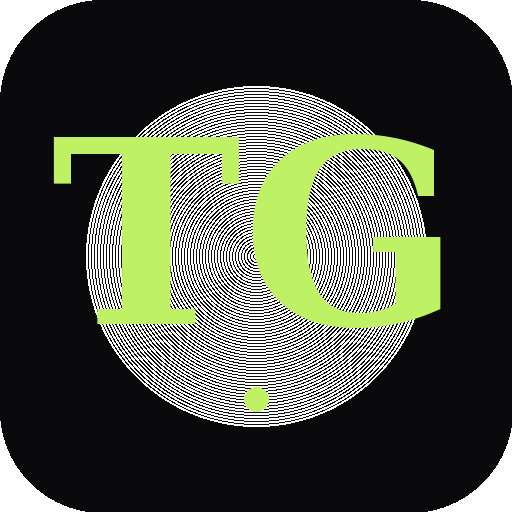
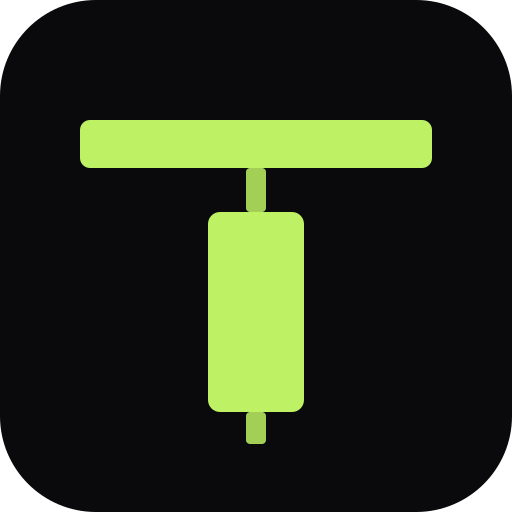
v1.79 — 4 bugs corrigés (test prod Samsung)
1. ICÔNE BUREAU PWA encore 'TG'
   → icon-192.png et icon-512.png régénérés depuis icon.svg (T-chandelier)
   → Conversion via Node + sharp (192×192: 2.7 KB, 512×512: 11.4 KB)
   → Le nouveau logo monogramme apparaît maintenant à l'install PWA

2. POP-UP CHAP 2 'Moyen d'échange' bug d'écriture
   → scene-01 CHAPTER_TAKEAWAYS[2]: 'Moyen d\u2019échange' (escape double)
   → Apparaissait littéralement 'd\u2019échange' dans le DOM
   → Fix: passé en double-quotes avec apostrophe simple

3. SCENE-04 CH4 SLIDE 4 trait rouge coupe 'panique'
   → Le <path d='M 175,165 L 145,140'> traversait le texte '😱 panique' (y=160)
   → Texte 'tu vends ici' déplacé en bas du SVG (y=195)
   → Nouvelle flèche court de y=191 à y=180, hors zone du texte panique

4. TUTO ENTRAÎNEMENT scene-05 hors gabarit
   → Targets '.sim-qty-row' et '.sim-advance-row' pointaient sur des éléments
     maintenant cachés (refonte bottom sheet v1.64)
   → Tuto réécrit: 4 étapes au lieu de 5
     · .sim-price-row (header)
     · .sim-chart-wrap (chart)
     · .tb-buy + .tb-sell (toolbar bottom)
     · .tb-advance (avancer + objectif Buy & Hold)

diff --git a/index.html b/index.html
@@ -1436,7 +1436,7 @@
 
     <div class="modules">
 
-      <div class="module-card" data-module="0" data-storage="tradegenius_v1" style="--module-color: var(--acid);" onclick="openModule(0, 'scene-01.html?v=178')">
+      <div class="module-card" data-module="0" data-storage="tradegenius_v1" style="--module-color: var(--acid);" onclick="openModule(0, 'scene-01.html?v=179')">
         <div class="card-top">
           <div class="card-top-left">
             <div class="card-avatar">🪙</div>
@@ -1455,7 +1455,7 @@
         </div>
       </div>
 
-      <div class="module-card" data-module="1" data-storage="tradegenius_m1" data-requires="0" style="--module-color: var(--acid);" onclick="openModule(1, 'scene-02.html?v=178')">
+      <div class="module-card" data-module="1" data-storage="tradegenius_m1" data-requires="0" style="--module-color: var(--acid);" onclick="openModule(1, 'scene-02.html?v=179')">
         <div class="card-top">
           <div class="card-top-left">
             <div class="card-avatar">📈</div>
@@ -1474,7 +1474,7 @@
         </div>
       </div>
 
-      <div class="module-card" data-module="2" data-storage="tradegenius_m2" data-requires="1" style="--module-color: var(--clay);" onclick="openModule(2, 'scene-03.html?v=178')">
+      <div class="module-card" data-module="2" data-storage="tradegenius_m2" data-requires="1" style="--module-color: var(--clay);" onclick="openModule(2, 'scene-03.html?v=179')">
         <div class="card-top">
           <div class="card-top-left">
             <div class="card-avatar">📊</div>
@@ -1493,7 +1493,7 @@
         </div>
       </div>
 
-      <div class="module-card" data-module="3" data-storage="tradegenius_m3" data-requires="2" style="--module-color: var(--purple);" onclick="openModule(3, 'scene-04.html?v=178')">
+      <div class="module-card" data-module="3" data-storage="tradegenius_m3" data-requires="2" style="--module-color: var(--purple);" onclick="openModule(3, 'scene-04.html?v=179')">
         <div class="card-top">
           <div class="card-top-left">
             <div class="card-avatar">🧠</div>
@@ -1583,15 +1583,15 @@
 
     <!-- Stats compactes -->
     <div class="stats-row">
-      <div class="stat-cell" onclick="location.href='scene-06.html?v=178'">
+      <div class="stat-cell" onclick="location.href='scene-06.html?v=179'">
         <div class="stat-num" id="stat-fiches">0</div>
         <div class="stat-lbl">Fiches<br>lues</div>
       </div>
-      <div class="stat-cell" onclick="location.href='scene-05.html?v=178'">
+      <div class="stat-cell" onclick="location.href='scene-05.html?v=179'">
         <div class="stat-num" id="stat-sessions">0</div>
         <div class="stat-lbl">Sessions<br>simu</div>
       </div>
-      <div class="stat-cell" onclick="location.href='scene-05.html?v=178'">
+      <div class="stat-cell" onclick="location.href='scene-05.html?v=179'">
         <div class="stat-num" id="stat-winrate">—</div>
         <div class="stat-lbl">Win<br>rate</div>
       </div>
@@ -1608,7 +1608,7 @@
         <div class="tool-icon" id="tool-simu-icon">🎮</div>
         <div class="tool-name" id="tool-simu-name">Entraîner</div>
       </div>
-      <div class="tool-chip" style="--mode-color: var(--purple);" onclick="location.href='scene-06.html?v=178'">
+      <div class="tool-chip" style="--mode-color: var(--purple);" onclick="location.href='scene-06.html?v=179'">
         <div class="tool-icon">📖</div>
         <div class="tool-name">Bibliothèque</div>
       </div>
@@ -1980,7 +1980,7 @@
     if (navigator.vibrate) navigator.vibrate(8);
     if (_modulesAllDone()) {
       const v = document.querySelector('.module-card[data-module="0"]')?.getAttribute('onclick')?.match(/v=(\d+)/)?.[1] || '168';
-      location.href = 'scene-05.html?v=178' + v;
+      location.href = 'scene-05.html?v=179' + v;
       return;
     }
     // Verrouillé : montrer info pédagogique
@@ -2183,7 +2183,7 @@
           </div>
           <div class="resume-arrow">→</div>
         `;
-        card.onclick = () => { if (window.location) window.location.href = 'scene-05.html?v=178' + v; };
+        card.onclick = () => { if (window.location) window.location.href = 'scene-05.html?v=179' + v; };
         block.style.display = 'block';
         return;
       }
@@ -2225,7 +2225,7 @@
           </div>
           <div class="resume-arrow">→</div>
         `;
-        card.onclick = () => location.href = 'scene-05.html?v=178';
+        card.onclick = () => location.href = 'scene-05.html?v=179';
         block.style.display = 'block';
         return;
       }
@@ -2245,7 +2245,7 @@
             </div>
             <div class="resume-arrow">→</div>
           `;
-          card.onclick = () => location.href = 'scene-06.html?v=178';
+          card.onclick = () => location.href = 'scene-06.html?v=179';
           block.style.display = 'block';
           return;
         }
@@ -2259,7 +2259,7 @@
           </div>
           <div class="resume-arrow">→</div>
         `;
-        card.onclick = () => location.href = 'scene-06.html?v=178';
+        card.onclick = () => location.href = 'scene-06.html?v=179';
         block.style.display = 'block';
         return;
       }
@@ -2274,7 +2274,7 @@
       </div>
       <div class="resume-arrow">→</div>
     `;
-    card.onclick = () => location.href = 'scene-05.html?v=178';
+    card.onclick = () => location.href = 'scene-05.html?v=179';
     block.style.display = 'block';
   }
 
@@ -2472,11 +2472,11 @@
     if (shortcut === 'modules') { showView('modules'); return; }
     if (shortcut === 'simu') {
       // Pas de location.href ici : on est déjà dans index.html, redirige
-      location.href = 'scene-05.html?v=178';
+      location.href = 'scene-05.html?v=179';
       return;
     }
     if (shortcut === 'biblio') {
-      location.href = 'scene-06.html?v=178';
+      location.href = 'scene-06.html?v=179';
       return;
     }
 
@@ -2495,11 +2495,11 @@
   init();
 </script>
 
-  <script type="module" src="tg-common.js?v=178"></script>
+  <script type="module" src="tg-common.js?v=179"></script>
   <script>
     if ('serviceWorker' in navigator) {
       window.addEventListener('load', () => {
-        navigator.serviceWorker.register('sw.js?v=178').catch(() => {});
+        navigator.serviceWorker.register('sw.js?v=179').catch(() => {});
       });
     }
   </script>

diff --git a/scene-05.html b/scene-05.html
@@ -5518,22 +5518,22 @@ const TUTO_STEPS = [
     body: 'Chaque <strong>bougie</strong> = 1 jour (verte = ↑, rouge = ↓). Courbe violette = <strong>MM20</strong> (tendance).<br><br>🔍 Bouton <strong>zoom</strong> : cycle 4 niveaux (Tout → ½ → ¼ → ⅛). <strong>MM50</strong> : ajoute la tendance long-terme (orange).<br><br>💡 Touche une bougie pour son détail OHLC.',
   },
   {
-    target: '.sim-qty-row',
+    target: '.tb-buy',
     placement: 'top',
-    title: 'Trader',
-    body: 'Saisis ta <strong>quantité</strong> (ou ½ / MAX), puis <strong>ACHETER</strong> ou <strong>VENDRE</strong>. Ta position s\'affichera juste au-dessus dès que tu achètes.',
+    title: 'Acheter',
+    body: 'Tape <strong>ACHETER</strong> pour ouvrir le panel d\'ordre : tu choisis ta quantité (slider %), définis <strong>SL/TP</strong> si nécessaire, et confirmes.',
   },
   {
-    target: '.sim-advance-row',
+    target: '.tb-sell',
+    placement: 'top',
+    title: 'Vendre',
+    body: 'Pareil pour <strong>VENDRE</strong> : ouvre le panel avec la quantité dispo en position. Reste verrouillé tant que tu n\'as pas d\'actions.',
+  },
+  {
+    target: '.tb-advance',
     placement: 'top',
     title: 'Avancer le temps',
-    body: 'Chaque appui sur <strong>⏭ Avancer</strong> = 1 jour qui passe. Le bouton <strong>▶</strong> avance auto (1 jour/sec). Au <strong>jour 5</strong>, le coach 🎯 t\'arrête pour ton premier choix guidé.',
-  },
-  {
-    target: '#sim-advance',
-    placement: 'top',
-    title: 'Ton objectif',
-    body: 'À la fin, ta perf est comparée au <strong>Buy & Hold</strong> = acheter au début, ne plus toucher. Cette stratégie bat 80% des traders. Ton défi : faire mieux.<br><br>💬 Les <span style="color:#7dd3fc;border-bottom:1px dashed #7dd3fc;">termes en bleu</span> du coach sont cliquables (RSI, FOMO, capitulation...).',
+    body: 'Chaque appui sur <strong>⏭ Avancer</strong> = 1 jour qui passe. Au <strong>jour 5</strong>, le coach 🎯 t\'arrête pour ton premier choix guidé.<br><br>🎯 Objectif : battre le <strong>Buy & Hold</strong> (acheter au début, garder = stratégie qui bat 80% des traders).',
   },
 ];
 let tutoStep = 0;
@@ -7270,11 +7270,11 @@ document.addEventListener('keydown', (e) => {
 });
 
 </script>
-  <script type="module" src="tg-common.js?v=178"></script>
+  <script type="module" src="tg-common.js?v=179"></script>
   <script>
     if ('serviceWorker' in navigator) {
       window.addEventListener('load', () => {
-        navigator.serviceWorker.register('sw.js?v=178').catch(() => {});
+        navigator.serviceWorker.register('sw.js?v=179').catch(() => {});
       });
     }
   </script>

diff --git a/sw.js b/sw.js
@@ -1,19 +1,19 @@
 // Trade Genius — Service Worker
-const VERSION = 'tg-v1.78';
+const VERSION = 'tg-v1.79';
 const CACHE_NAME = `trade-genius-${VERSION}`;
 
 const CORE = [
   './',
   './index.html',
-  './scene-01.html?v=178',
-  './scene-02.html?v=178',
-  './scene-03.html?v=178',
-  './scene-04.html?v=178',
-  './scene-05.html?v=178',
-  './scene-06.html?v=178',
+  './scene-01.html?v=179',
+  './scene-02.html?v=179',
+  './scene-03.html?v=179',
+  './scene-04.html?v=179',
+  './scene-05.html?v=179',
+  './scene-06.html?v=179',
   './bill_20.webp?v=1',
   './bill_20.png?v=1',
-  './tg-common.js?v=178',
+  './tg-common.js?v=179',
   './icon.svg',
   './icon-192.png',
   './icon-512.png',

diff --git a/scene-04.html b/scene-04.html
@@ -8160,9 +8160,9 @@
             <text x="125" y="160" font-family="JetBrains Mono" font-size="9" fill="#fb7185" font-weight="700">😱 panique</text>
             <text x="220" y="115" font-family="JetBrains Mono" font-size="9" fill="#8edca0" font-weight="600">🙂 rebond</text>
 
-            <!-- "Tu vends ici" arrow -->
-            <path d="M 175,165 L 145,140" stroke="#fb7185" stroke-width="1.5" fill="none"/>
-            <text x="55" y="138" font-family="JetBrains Mono" font-size="10" fill="#fb7185" font-weight="700">tu vends ici →</text>
+            <!-- "Tu vends ici" — placé en bas, sous la zone des émotions (évite chevauchement avec 'panique') -->
+            <text x="8" y="195" font-family="JetBrains Mono" font-size="9" fill="#fb7185" font-weight="700">tu vends ici</text>
+            <path d="M 92,191 L 158,180" stroke="#fb7185" stroke-width="1.5" fill="none"/>
           </svg>
         </div>
 
@@ -9399,11 +9399,11 @@
       }
     })();
   </script>
-  <script type="module" src="tg-common.js?v=178"></script>
+  <script type="module" src="tg-common.js?v=179"></script>
   <script>
     if ('serviceWorker' in navigator) {
       window.addEventListener('load', () => {
-        navigator.serviceWorker.register('sw.js?v=178').catch(() => {});
+        navigator.serviceWorker.register('sw.js?v=179').catch(() => {});
       });
     }
   </script>

diff --git a/scene-01.html b/scene-01.html
@@ -5125,7 +5125,7 @@
         { e: '🏛️', t: 'Sans confiance dans le système, <strong>plus de monnaie possible</strong>.' },
       ]},
       2: { title: '3 rôles essentiels', points: [
-        { e: '🛒', t: '<strong>Moyen d\\u2019échange</strong> — acheter et vendre.' },
+        { e: '🛒', t: "<strong>Moyen d'échange</strong> — acheter et vendre." },
         { e: '📐', t: '<strong>Unité de compte</strong> — mesurer la valeur des choses.' },
         { e: '💾', t: '<strong>Réserve de valeur</strong> — épargner pour plus tard.' },
       ]},
@@ -5668,11 +5668,11 @@
       }
     }
   </script>
-  <script type="module" src="tg-common.js?v=178"></script>
+  <script type="module" src="tg-common.js?v=179"></script>
   <script>
     if ('serviceWorker' in navigator) {
       window.addEventListener('load', () => {
-        navigator.serviceWorker.register('sw.js?v=178').catch(() => {});
+        navigator.serviceWorker.register('sw.js?v=179').catch(() => {});
       });
     }
   </script>

diff --git a/scene-02.html b/scene-02.html
@@ -7165,11 +7165,11 @@
     });
     document.addEventListener('keydown', (e) => { if (e.key === 'Escape') closeInfo(); });
   </script>
-  <script type="module" src="tg-common.js?v=178"></script>
+  <script type="module" src="tg-common.js?v=179"></script>
   <script>
     if ('serviceWorker' in navigator) {
       window.addEventListener('load', () => {
-        navigator.serviceWorker.register('sw.js?v=178').catch(() => {});
+        navigator.serviceWorker.register('sw.js?v=179').catch(() => {});
       });
     }
   </script>

diff --git a/scene-03.html b/scene-03.html
@@ -8697,11 +8697,11 @@
     });
     document.addEventListener('keydown', (e) => { if (e.key === 'Escape') closeInfo(); });
   </script>
-  <script type="module" src="tg-common.js?v=178"></script>
+  <script type="module" src="tg-common.js?v=179"></script>
   <script>
     if ('serviceWorker' in navigator) {
       window.addEventListener('load', () => {
-        navigator.serviceWorker.register('sw.js?v=178').catch(() => {});
+        navigator.serviceWorker.register('sw.js?v=179').catch(() => {});
       });
     }
   </script>

diff --git a/scene-06.html b/scene-06.html
@@ -1775,11 +1775,11 @@ document.addEventListener('keydown', (e) => {
   if (e.key === 'Escape') navBack();
 });
 </script>
-  <script type="module" src="tg-common.js?v=178"></script>
+  <script type="module" src="tg-common.js?v=179"></script>
   <script>
     if ('serviceWorker' in navigator) {
       window.addEventListener('load', () => {
-        navigator.serviceWorker.register('sw.js?v=178').catch(() => {});
+        navigator.serviceWorker.register('sw.js?v=179').catch(() => {});
       });
     }
   </script>

diff --git a/tg-common.js b/tg-common.js
@@ -2,7 +2,7 @@
 // Version partagée, badge auto, billet 3D Three.js
 import * as THREE from 'https://unpkg.com/three@0.160.0/build/three.module.js';
 
-export const TG_VERSION = 'v1.78';
+export const TG_VERSION = 'v1.79';
 
 // === Badge version auto ===
 export function injectVersionBadge() {